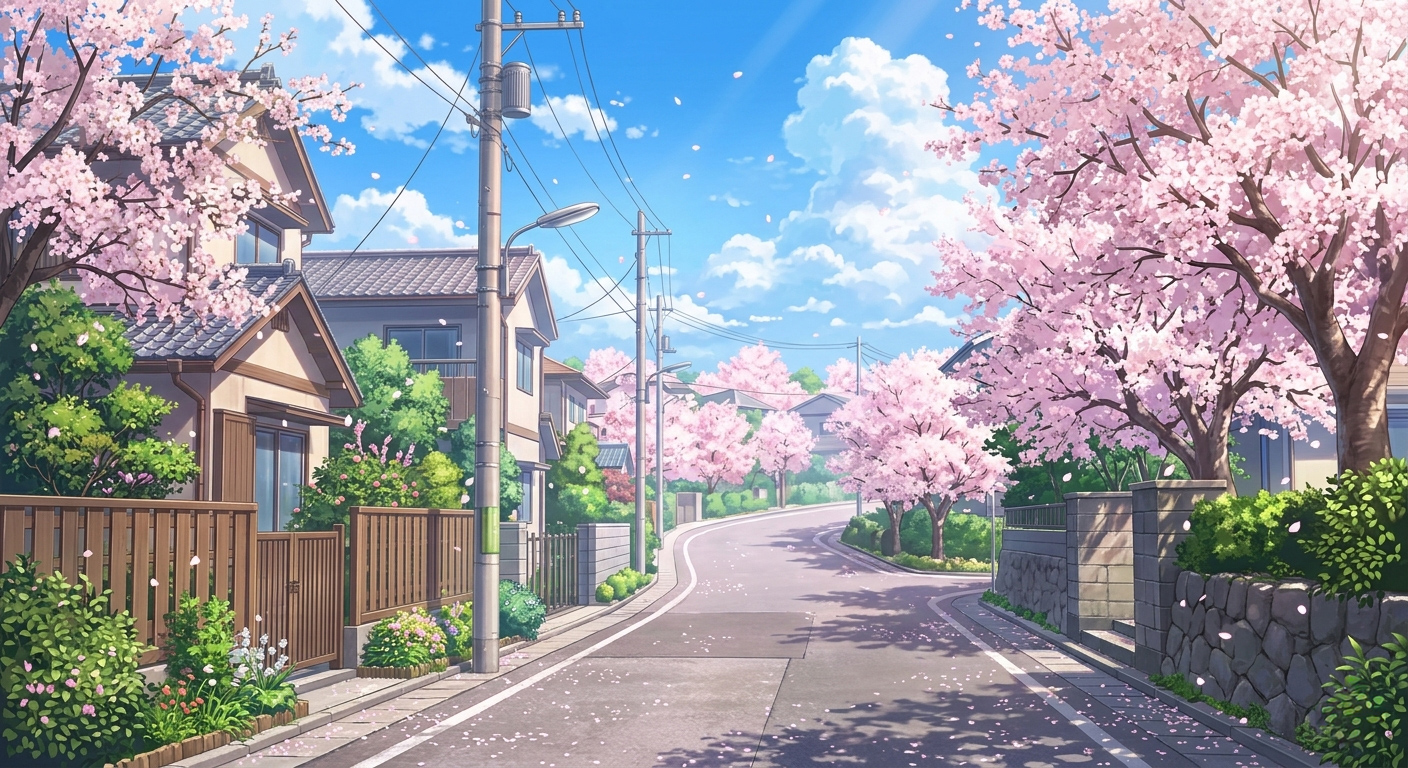
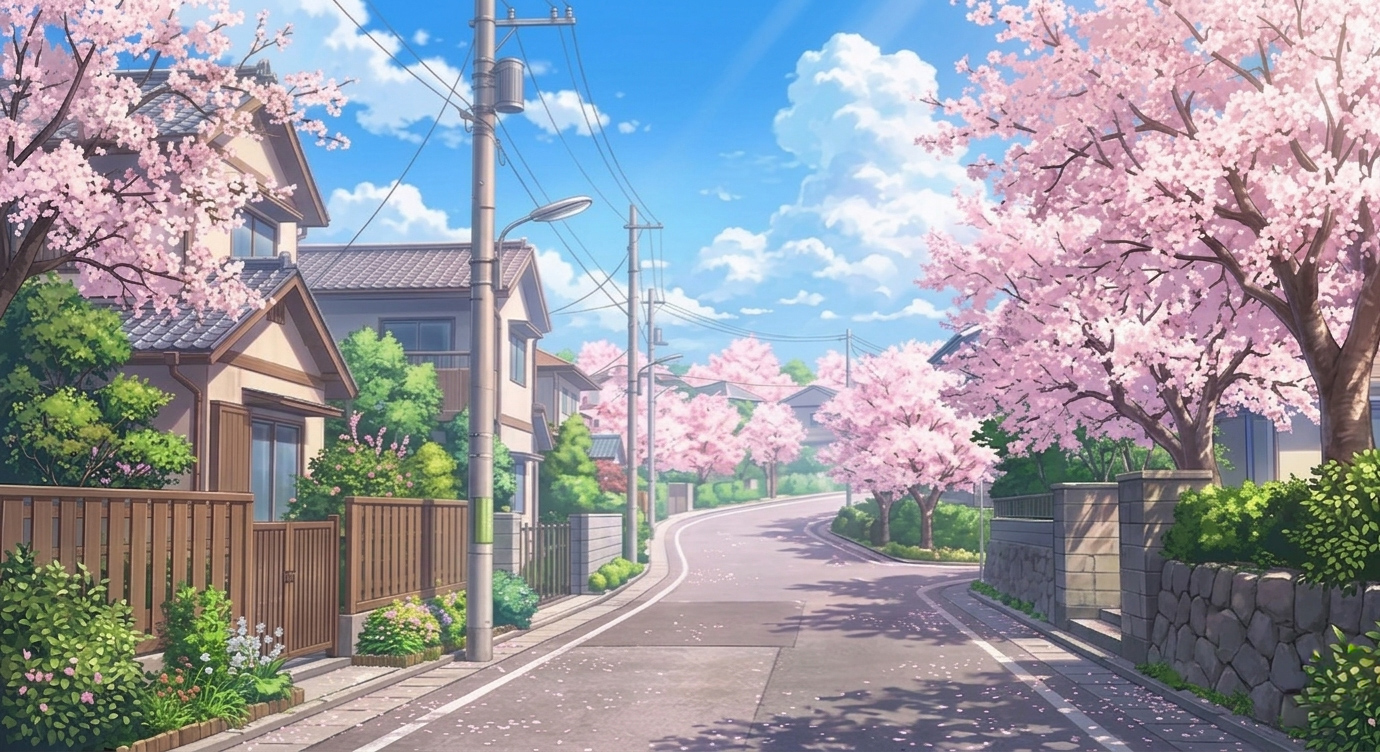
new

diff --git a/static/style.css b/static/style.css
@@ -1231,7 +1231,7 @@ body, html {
 }
 
 /* ==========================================
-   🌸 Live2D 櫻花灑落物理引擎特效 (極致粉白平衡版)
+   🌸 Live2D 櫻花灑落物理引擎特效 (極致粉白平衡版 - 側邊斜飄微風重製)
 ========================================== */
 .sakura-petal {
     position: absolute;
@@ -1248,22 +1248,35 @@ body, html {
     z-index: 0; 
     opacity: 0;
     
-    /* 綁定雙軌動畫：下墜 + 左右搖曳 */
+    /* 綁定雙軌動畫：斜向下墜 + 左右搖曳 */
     animation: sakuraFall linear infinite, sakuraSway ease-in-out infinite alternate;
 }
 
-/* 物理下墜與旋轉 */
+/* 物理下墜與旋轉 (改為帶有強烈風向的斜飄) */
 @keyframes sakuraFall {
-    0% { top: -10%; opacity: 0; transform: rotate(0deg) scale(0.5); }
+    0% { 
+        top: -10%; 
+        opacity: 0; 
+        /* 初始狀態：無水平位移 */
+        transform: translateX(0) rotate3d(0, 0, 0, 0deg) scale(0.5); 
+    }
     15% { opacity: 0.8; }
     85% { opacity: 0.8; }
-    100% { top: 110%; opacity: 0; transform: rotate(360deg) scale(1.2); }
+    100% { 
+        top: 110%; 
+        opacity: 0; 
+        /* 🌟 核心修改：加入 translateX(45vw) 讓花瓣在落下的過程中，
+           同時向右大幅度移動，形成視覺上的側邊斜向陣風。
+           搭配 rotate3d 模擬花瓣在空中輕盈的立體翻轉。
+        */
+        transform: translateX(-45vw) rotate3d(1, 1, 0, 360deg) scale(1.2); 
+    }
 }
 
-/* 隨風左右搖曳 */
+/* 隨風左右搖曳 (修改擺動幅度以配合斜向風勢) */
 @keyframes sakuraSway {
-    0% { margin-left: 0px; }
-    100% { margin-left: 80px; }
+    0% { margin-left: -15px; }
+    100% { margin-left: 60px; }
 }
 
 /* ==========================================

diff --git a/static/main.js b/static/main.js
@@ -167,7 +167,7 @@ document.addEventListener('DOMContentLoaded', () => {
             local_help_title: "❓ Local LLM Startup Tutorial",
             tooltip_l2d_history: "Live2D Chat Log", l2d_history_title: "Chat History",
             tooltip_l2d_auto: "Voice Direct", tooltip_l2d_verify: "Verify Mode",
-            welcome_md: `Hello! Welcome to the **IVE HKIIT Open Day**! I am your official **AI Chatbot Assistant**.\n\nThe IVE IT Discipline has been upgraded to the **Hong Kong Institute of Information Technology (HKIIT)**! I'm here to provide you with syllabus details, tuition fees, and admission requirements for our Higher Diploma programs, or navigate you through today's activities!\n\n**Try asking me:**\n* Syllabus: \`What will I learn in Higher Diploma in Data Science and AI (IT114126)?\`\n* Admission: \`What are the requirements for Real Estate (BA114037)?\`\n* Transport: \`How do I get to IVE Tsing Yi?\`\n\nHow can I help you today?`
+            welcome_md: `Hello! Welcome to the **IVE HKIIT Open Day**! I am your official **AI Chatbot Assistant**.\n\nThe IVE IT Discipline has been upgraded to the **Hong Kong Institute of Information Technology (HKIIT)**! I'm here to provide you with syllabus details, tuition fees, and admission requirements for our Higher Diploma and Diploma of Foundation Studies programs, or navigate you through today's activities!\n\n**Try asking me:**\n* Syllabus: \`What will I learn in Higher Diploma in Data Science and AI (IT114126)?\`\n* Admission: \`What are the requirements for Real Estate (BA114037)?\`\n* Transport: \`How do I get to IVE Tsing Yi?\`\n\nHow can I help you today?`
         },
         'zh-HK': {
             app_title: "開放日助手", new_chat: "新增對話", recent_chats: "近期對話",
@@ -216,7 +216,7 @@ document.addEventListener('DOMContentLoaded', () => {
             local_help_title: "❓ 本地大模型啟動教學",
             tooltip_l2d_history: "Live2D 聊天紀錄", l2d_history_title: "聊天紀錄",
             tooltip_l2d_auto: "語音直發", tooltip_l2d_verify: "打字校對",
-            welcome_md: `您好！歡迎來到 **IVE HKIIT 開放日**！我是您的官方 **AI Chatbot 智能升學諮詢助手**。\n\n香港專業教育學院（IVE）資訊科技學系已全新升級為 **香港資訊科技學院（HKIIT）**！在這裡，我能為您提供各項熱門的高級文憑 (Higher Diploma) 課程大綱、學費、入學要求，或是為您導航今天的開放日活動！\n\n**您可以試著這樣問我：**\n* 課程內容：\`IT114126 數據科學及人工智能高級文憑學咩？\`\n* 入學條件：\`BA114037 房地產高級文憑有咩入學要求？\`\n* 交通導航：\`青衣 IVE 點樣去？\` \n\n請問今天有甚麼我可以幫到您？`
+            welcome_md: `您好！歡迎來到 **IVE HKIIT 開放日**！我是您的官方 **AI Chatbot 智能升學諮詢助手**。\n\n香港專業教育學院（IVE）資訊科技學系已全新升級為 **香港資訊科技學院（HKIIT）**！在這裡，我能為您提供各項熱門的高級文憑 (Higher Diploma) 及基礎文憑 (Diploma of Foundation Studies) 的課程大綱、學費、入學要求，或是為您導航今天的開放日活動！\n\n**您可以試著這樣問我：**\n* 課程內容：\`IT114126 數據科學及人工智能高級文憑學咩？\`\n* 入學條件：\`BA114037 房地產高級文憑有咩入學要求？\`\n* 交通導航：\`青衣 IVE 點樣去？\` \n\n請問今天有甚麼我可以幫到您？`
         },
         'zh-CN': {
             app_title: "开放日助手", new_chat: "新增对话", recent_chats: "近期对话",
@@ -265,7 +265,7 @@ document.addEventListener('DOMContentLoaded', () => {
             local_help_title: "❓ 本地大模型启动教学",
             tooltip_l2d_history: "Live2D 聊天记录", l2d_history_title: "聊天记录",
             tooltip_l2d_auto: "语音直发", tooltip_l2d_verify: "打字校对",
-            welcome_md: `您好！欢迎来到 **IVE HKIIT 开放日**！我是您的官方 **AI Chatbot 智能升学咨询助手**。\n\n香港专业教育学院（IVE）资讯科技学系已全新升级为 **香港资讯科技学院（HKIIT）**！在这里，我能为您提供各项热门的高级文凭 (Higher Diploma) 课程大纲、学费、入学要求，或是为您导航今天的开放日活动！\n\n**您可以试着这样问我：**\n* 课程内容：\`IT114126 数据科学及人工智能高级文凭学什么？\`\n* 入学条件：\`BA114037 房地产高级文凭有什么入学要求？\`\n* 交通导航：\`青衣 IVE 怎么去？\` \n\n请问今天有什么我可以帮到您？`
+            welcome_md: `您好！欢迎来到 **IVE HKIIT 开放日**！我是您的官方 **AI Chatbot 智能升学咨询助手**。\n\n香港专业教育学院（IVE）资讯科技学系已全新升级为 **香港资讯科技学院（HKIIT）**！在这里，我能为您提供各项热门的高级文凭 (Higher Diploma) 及基础文凭 (Diploma of Foundation Studies) 的课程大纲、学费、入学要求，或是为您导航今天的开放日活动！\n\n**您可以试着这样问我：**\n* 课程内容：\`IT114126 数据科学及人工智能高级文凭学什么？\`\n* 入学条件：\`BA114037 房地产高级文凭有什么入学要求？\`\n* 交通导航：\`青衣 IVE 怎么去？\` \n\n请问今天有什么我可以帮到您？`
         }
     };
 
@@ -2280,7 +2280,7 @@ document.addEventListener('DOMContentLoaded', () => {
 
         // 4. 生成櫻花 (加入 try-catch 護盾，若有任何渲染阻擋自動關閉)
         try {
-            for (let i = 0; i < 25; i++) {
+            for (let i = 0; i < 50; i++) {
                 let petal = document.createElement('div');
                 petal.className = 'sakura-petal';
                 petal.style.left = (Math.random() * 100) + 'vw';

diff --git a/static/index.html b/static/index.html
@@ -10,7 +10,7 @@
     <title>Vioast</title>
     <link rel="icon" href="/static/app-logo.png">
     <link rel="apple-touch-icon" href="/static/app-logo.png">
-    <link rel="stylesheet" href="/static/style.css?v=17">
+    <link rel="stylesheet" href="/static/style.css?v=18">
     
     <script src="https://cdnjs.cloudflare.com/ajax/libs/pixi.js/5.3.12/pixi.min.js"></script>
     <script src="/static/live2dcubismcore.min.js"></script>